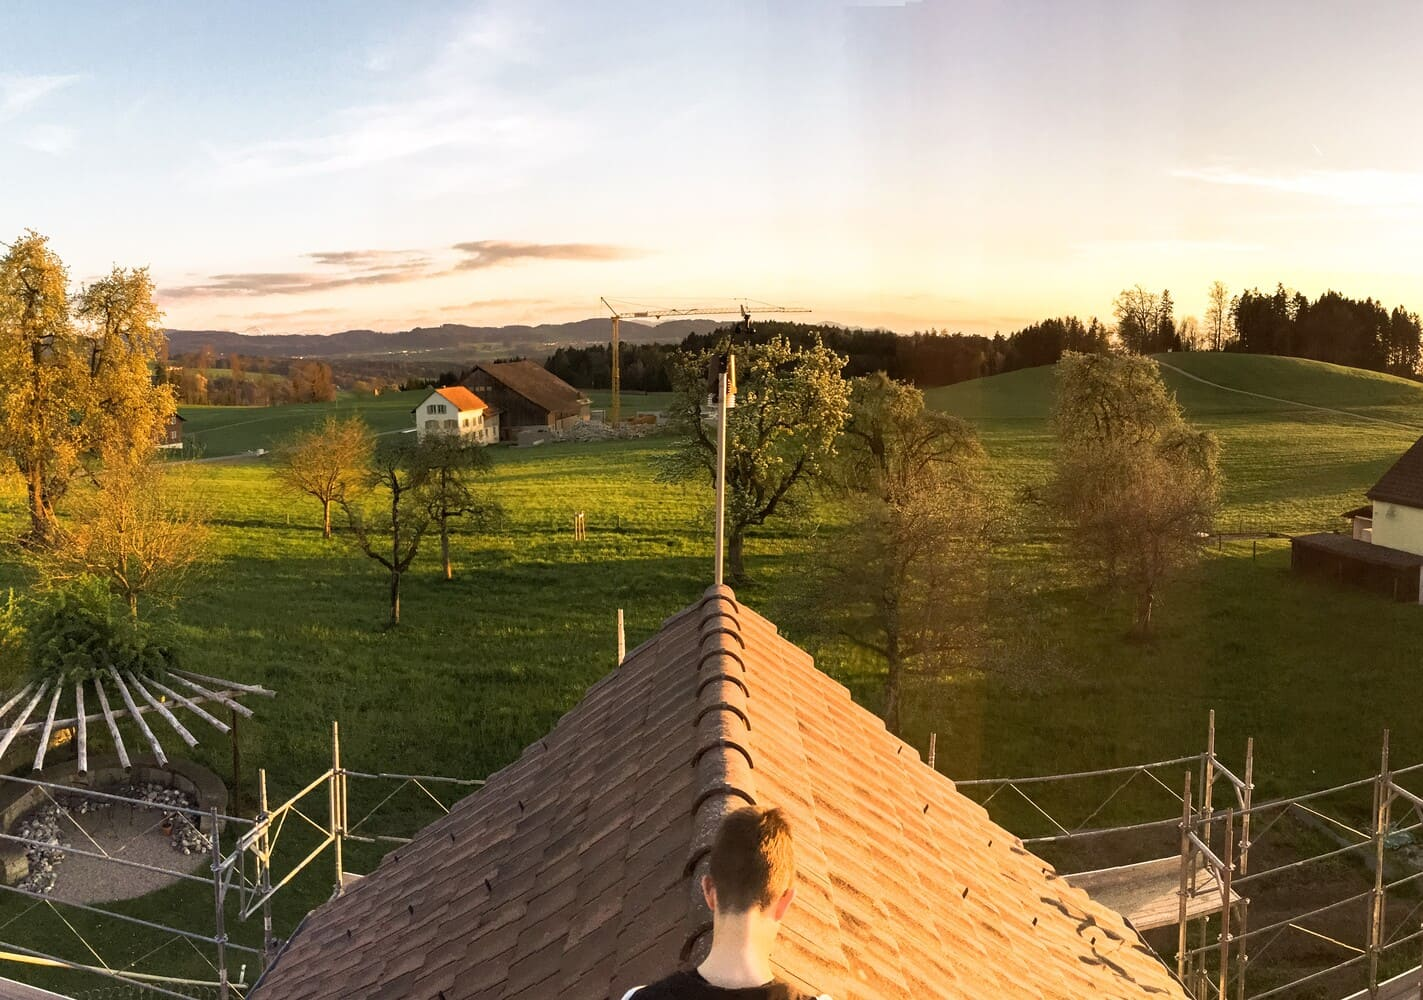
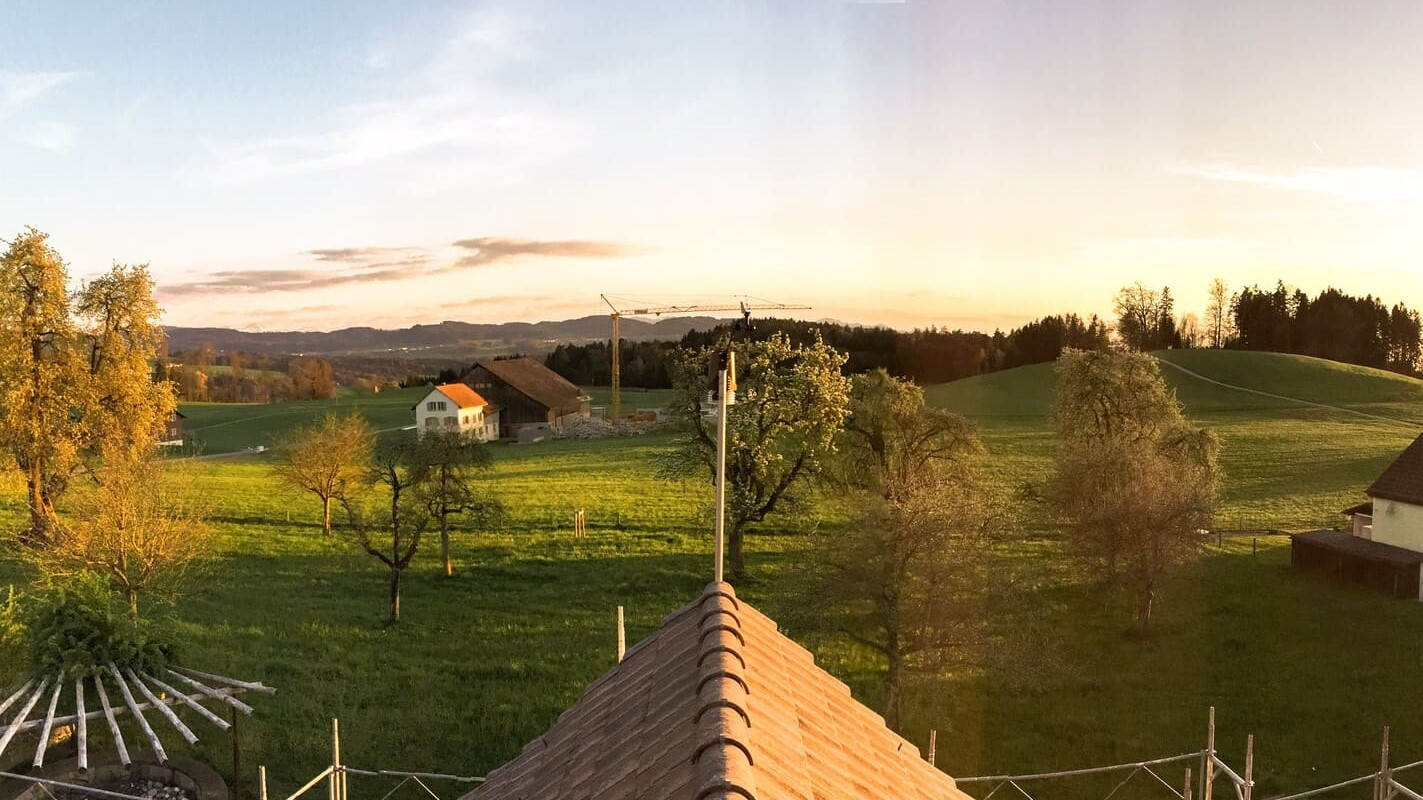
Home Bilder Wetterstation, read me

diff --git a/index.html b/index.html
@@ -229,73 +229,72 @@
     </section>
     <section class="u-align-center u-clearfix u-section-3" id="carousel_2799">
       <div class="u-clearfix u-sheet u-valign-middle u-sheet-1">
-        <div class="u-clearfix u-layout-wrap u-layout-wrap-1">
-          <div class="u-layout">
-            <div class="u-layout-col">
-              <div class="u-size-30">
-                <div class="u-layout-col">
-                  <div
-                    class="u-align-left u-container-style u-layout-cell u-left-cell u-right-cell u-size-60 u-layout-cell-1"
-                  >
+        <!-- <div class="in_front"> -->
+          <div class="u-clearfix u-layout-wrap u-layout-wrap-1">
+            <div class="u-layout">
+              <div class="u-layout-col">
+                <div class="u-size-30">
+                  <div class="u-layout-col">
                     <div
-                      class="u-container-layout u-valign-middle-lg u-valign-middle-md u-valign-middle-xl u-container-layout-1"
-                    >
-                      <h2
-                        class="u-custom-font u-font-playfair-display u-text u-text-1"
-                      >
-                        Meine <span style="font-weight: 700">Wetterstation</span> in Niederhelfenschwil<br />
-                      </h2>
+                      class="u-align-left u-container-style u-layout-cell u-left-cell u-right-cell u-size-60 u-layout-cell-1">
+                      <div
+                        class="u-container-layout u-valign-middle-lg u-valign-middle-md u-valign-middle-xl u-container-layout-1">
+                        <h2
+                          class="u-custom-font u-font-playfair-display u-text u-text-1"
+                        >
+                          Meine <span style="font-weight: 700">Wetterstation</span> in Niederhelfenschwil<br />
+                        </h2>
+                      </div>
                     </div>
                   </div>
                 </div>
-              </div>
-              <div class="u-size-30">
-                <div class="u-layout-row">
-                  <div
-                    class="u-align-left u-container-style u-layout-cell u-left-cell u-size-30 u-layout-cell-2"
-                  >
-                    <div class="u-container-layout u-container-layout-2">
-                      <p class="u-text u-text-2">
-                        Ich habe seit meiner Oberstufenzeit im Jahr 2014 eine eigene Wetterstation auf dem Hausdach meiner
-                        Eltern. In der Zwischenzeit haben sich einige Wetterdaten angesammelt, welche ich der Öffentlichkeit zur 
-                        Verfügung stellen möchte.
-                      </p>
+                <div class="u-size-30">
+                  <div class="u-layout-row">
+                    <div
+                      class="u-align-left u-container-style u-layout-cell u-left-cell u-size-30 u-layout-cell-2"
+                    >
+                      <div class="u-container-layout u-container-layout-2">
+                        <p class="u-text u-text-2">
+                          Ich habe seit meiner Oberstufenzeit im Jahr 2014 eine eigene Wetterstation auf dem Hausdach meiner
+                          Eltern. In der Zwischenzeit haben sich einige Wetterdaten angesammelt, welche ich der Öffentlichkeit zur 
+                          Verfügung stellen möchte.
+                        </p>
+                      </div>
                     </div>
-                  </div>
-                  <div
-                    class="u-align-left u-container-style u-layout-cell u-right-cell u-size-30 u-layout-cell-3"
-                  >
-                    <div class="u-container-layout u-container-layout-3">
-                      <p class="u-text u-text-4">
-                        Auf meiner Wetterseite sind alle Daten grafisch ansprechend dargestellt. Zudem gibt es ein paar 
-                        ausführliche Erklärungen zum Standort und der Messreihe sowie meinen Erfahrungen. 
-                      </p>
-                      <a
-                        href="Weather.html"
-                        class="u-active-none u-border-2 u-border-active-palette-3-base u-border-black u-border-hover-palette-3-base u-btn u-btn-rectangle u-button-style u-hover-none u-none u-btn-2"
-                        >Zu den Wetterdaten</a
-                      >
+                    <div
+                      class="u-align-left u-container-style u-layout-cell u-right-cell u-size-30 u-layout-cell-3"
+                    >
+                      <div class="u-container-layout u-container-layout-3">
+                        <p class="u-text u-text-4">
+                          Auf meiner Wetterseite sind alle Daten grafisch ansprechend dargestellt. Zudem gibt es ein paar 
+                          ausführliche Erklärungen zum Standort und der Messreihe sowie meinen Erfahrungen. 
+                        </p>
+                        <a
+                          href="Weather.html"
+                          class="u-active-none u-border-2 u-border-active-palette-3-base u-border-black u-border-hover-palette-3-base u-btn u-btn-rectangle u-button-style u-hover-none u-none u-btn-2"
+                          >Zu den Wetterdaten</a
+                        >
+                      </div>
                     </div>
                   </div>
                 </div>
               </div>
             </div>
           </div>
-        </div>
-        <div class="u-palette-3-light-2 u-shape u-shape-circle u-shape-1"></div>
-        <div
-          class="u-expanded-width-lg u-expanded-width-md u-expanded-width-sm u-expanded-width-xs u-gallery u-layout-grid u-lightbox u-show-text-on-hover u-gallery-1"
-        >
+        <!-- </div> -->
+        <!-- <div class="in_back"> -->
+          <div class="u-palette-3-light-2 u-shape u-shape-circle u-shape-1"></div>
+        <!-- </div> -->
+        <div class="u-expanded-width-lg u-expanded-width-md u-expanded-width-sm u-expanded-width-xs u-gallery u-layout-grid u-lightbox u-show-text-on-hover u-gallery-1">
           <div class="u-gallery-inner u-gallery-inner-1">
             <div class="u-effect-fade u-gallery-item">
               <div
                 class="u-back-slide u-back-slide-1"
                 data-image-width="437"
-                data-image-height="626"
-              >
+                data-image-height="626">
                 <img
                   class="u-back-image u-back-image-1 crop-left"
-                  src="images/Wetterstation1.jpg"
+                  src="images/Wetterstation_pano.JPG"
                 />
               </div>
               <div class="u-over-slide u-shading u-over-slide-1">
@@ -307,7 +306,7 @@
               <div class="u-back-slide u-back-slide-2">
                 <img
                   class="u-back-image u-expanded u-back-image-2"
-                  src="images/pexels-photo-2909067.jpeg"
+                  src="images/Wetterstation_pano.jpg"
                 />
               </div>
               <div class="u-over-slide u-shading u-over-slide-2">
@@ -323,7 +322,7 @@
               >
                 <img
                   class="u-back-image u-expanded u-back-image-3"
-                  src="images/pexels-photo-2909067.jpeg"
+                  src="images/Wetterstation_pano.JPG"
                 />
               </div>
               <div class="u-over-slide u-shading u-over-slide-3">

diff --git a/Home.css b/Home.css
@@ -294,6 +294,7 @@
 .u-section-3 .u-layout-wrap-1 {
   width: 743px;
   margin: 60px auto 0 0;
+  z-index: 1;
 }
 
 .u-section-3 .u-layout-cell-1 {
@@ -375,7 +376,7 @@
 }
 
 .u-section-3 .u-back-image-1 {
-  object-position: 50% 50%;
+  object-position: 10% 50%;
 }
 
 .u-section-3 .u-over-slide-1 {
@@ -388,7 +389,7 @@
 }
 
 .u-section-3 .u-back-image-2 {
-  object-position: 50% 50%;
+  object-position: 39% 50%;
 }
 
 .u-section-3 .u-over-slide-2 {
@@ -411,7 +412,7 @@
 }
 
 .u-section-3 .u-back-image-3 {
-  object-position: 50% 50%;
+  object-position: 67% 50%;
 }
 
 .u-section-3 .u-over-slide-3 {
@@ -1433,4 +1434,44 @@
   .u-section-8 .u-text-1 {
     font-size: 3.75rem;
   }
+}
+
+
+.container_mein {
+  width: 60%;
+  margin-top: 15em; 
+  margin-bottom: 10em;
+  position: relative;
+}
+
+.gallery_mein {
+  display: grid;
+  grid-template-columns: repeat(3, auto);
+}
+
+.gallery__img {
+  width: 100%;
+  height: 150%;
+  object-fit: cover;
+  display: block; 
+}
+
+.gallery__item--1 {
+  grid-column: 1;
+
+  /** Alternative Syntax **/
+  /* grid-column: 1 / span 2;  */
+  /* grid-row: 1 / span 2; */
+}
+
+.gallery__item--2 {
+  grid-column-start: 2;
+  grid-column-end: 3;
+}
+
+.gallery__img--2 {
+  width: 300%;
+  height: 150%;
+  object-fit: cover;
+  display: block; 
 }

diff --git a/lightbox.css b/lightbox.css
@@ -13,7 +13,7 @@ body.lb-disable-scrolling {
   display: none;
 }
 
-.lightbox {
+.lightbox {palette
   position: absolute;
   left: 0;
   width: 100%;

diff --git a/readme.md b/readme.md
@@ -1,0 +1,9 @@
+# Tipps and tricks css
+- z-index: +-1;         # to put the element behind the background
+
+
+# Tipps and tricks js
+
+
+# Tipps and tricks html
+
